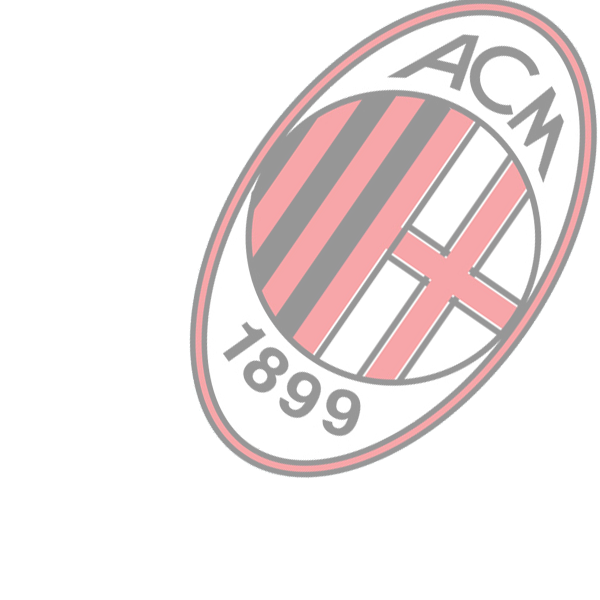
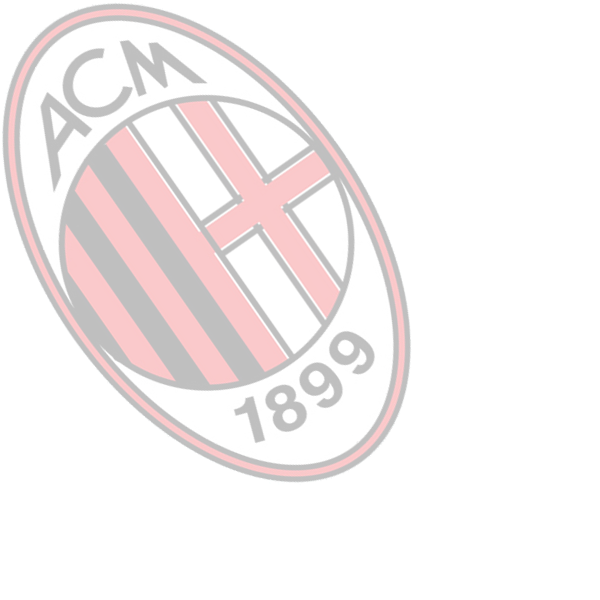
update team images (see message) -rotate each image about 90 degrees -have them appear on the left side -save them for minification

diff --git a/build/css/styles.min.css b/build/css/styles.min.css
@@ -53,12 +53,12 @@ to{background-position:0 0}}
 .row{margin:0 auto}
 .well{border-radius:0;margin:0 auto 20px}
 @media (min-width:992px){.col-md-8{float:none}}
-@media only screen and (min-width:768px){.team-chelsea{background:url(../img/chelsea.png) 450px 0/300px 300px no-repeat}
-.team-real-madrid{background:url(../img/real-madrid.png) 450px 0/300px 300px no-repeat}
-.team-milan{background:url(../img/milan.png) 450px 0/300px 300px no-repeat}}
-@media only screen and (-webkit-min-device-pixel-ratio:2) and (min-width:768px),only screen and (min--moz-device-pixel-ratio:2) and (min-width:768px),only screen and (-o-min-device-pixel-ratio:2/1) and (min-width:768px),only screen and (min-device-pixel-ratio:2) and (min-width:768px),only screen and (min-resolution:192dpi) and (min-width:768px),only screen and (min-resolution:2dppx) and (min-width:768px){.team-chelsea{background:url(../img/chelsea@2x.png) 450px 0/300px 300px no-repeat}
-.team-real-madrid{background:url(../img/real-madrid@2x.png) 450px 0/300px 300px no-repeat}
-.team-milan{background:url(../img/milan@2x.png) 450px 0/300px 300px no-repeat}}
+@media only screen and (min-width:768px){.team-chelsea{background:url(../img/chelsea.png) 0 0/300px 300px no-repeat}
+.team-real-madrid{background:url(../img/real-madrid.png) 0 0/300px 300px no-repeat}
+.team-milan{background:url(../img/milan.png) 0 0/300px 300px no-repeat}}
+@media only screen and (-webkit-min-device-pixel-ratio:2) and (min-width:768px),only screen and (min--moz-device-pixel-ratio:2) and (min-width:768px),only screen and (-o-min-device-pixel-ratio:2/1) and (min-width:768px),only screen and (min-device-pixel-ratio:2) and (min-width:768px),only screen and (min-resolution:192dpi) and (min-width:768px),only screen and (min-resolution:2dppx) and (min-width:768px){.team-chelsea{background:url(../img/chelsea@2x.png) 0 0/300px 300px no-repeat}
+.team-real-madrid{background:url(../img/real-madrid@2x.png) 0 0/300px 300px no-repeat}
+.team-milan{background:url(../img/milan@2x.png) 0 0/300px 300px no-repeat}}
 body,html{height:100%}
 .gl-container{height:100%;min-height:1730px}
 ol,ul{padding-left:0}

diff --git a/css-build/styles.css b/css-build/styles.css
@@ -37,29 +37,29 @@
 @media only screen and (min-width: 768px) {
   /* Medium screen, non-retina */
   .team-chelsea {
-    background: url('../img/chelsea.png') no-repeat 450px 0;
+    background: url('../img/chelsea.png') no-repeat 0 0;
     background-size: 300px 300px;
   }
   .team-real-madrid {
-    background: url('../img/real-madrid.png') no-repeat 450px 0;
+    background: url('../img/real-madrid.png') no-repeat 0 0;
     background-size: 300px 300px;
   }
   .team-milan {
-    background: url('../img/milan.png') no-repeat 450px 0;
+    background: url('../img/milan.png') no-repeat 0 0;
     background-size: 300px 300px;
   }
 }
 @media only screen and (-webkit-min-device-pixel-ratio: 2) and (min-width: 768px), only screen and (min--moz-device-pixel-ratio: 2) and (min-width: 768px), only screen and (-o-min-device-pixel-ratio: 2/1) and (min-width: 768px), only screen and (min-device-pixel-ratio: 2) and (min-width: 768px), only screen and (min-resolution: 192dpi) and (min-width: 768px), only screen and (min-resolution: 2dppx) and (min-width: 768px) {
   .team-chelsea {
-    background: url('../img/chelsea@2x.png') no-repeat 450px 0;
+    background: url('../img/chelsea@2x.png') no-repeat 0 0;
     background-size: 300px 300px;
   }
   .team-real-madrid {
-    background: url('../img/real-madrid@2x.png') no-repeat 450px 0;
+    background: url('../img/real-madrid@2x.png') no-repeat 0 0;
     background-size: 300px 300px;
   }
   .team-milan {
-    background: url('../img/milan@2x.png') no-repeat 450px 0;
+    background: url('../img/milan@2x.png') no-repeat 0 0;
     background-size: 300px 300px;
   }
 }

diff --git a/css-build/imports/retina-media-queries.less b/css-build/imports/retina-media-queries.less
@@ -27,7 +27,7 @@ only screen and (                min-resolution: 2dppx)  and (min-width: 320px) 
     .for(@teams); .-each(@team) {
       @name: e(@team);
       &-@{name} {
-        background: url('../img/@{name}.png') no-repeat 450px 0;
+        background: url('../img/@{name}.png') no-repeat 0 0;
         .team-bg-size;
       }
     }
@@ -49,7 +49,7 @@ only screen and (                min-resolution: 2dppx)  and (min-width: 768px) 
     .for(@teams); .-each(@team) {
       @name: e(@team);
       &-@{name} {
-        background: url('../img/@{name}@2x.png') no-repeat 450px 0;
+        background: url('../img/@{name}@2x.png') no-repeat 0 0;
         .team-bg-size;
       }
     }
